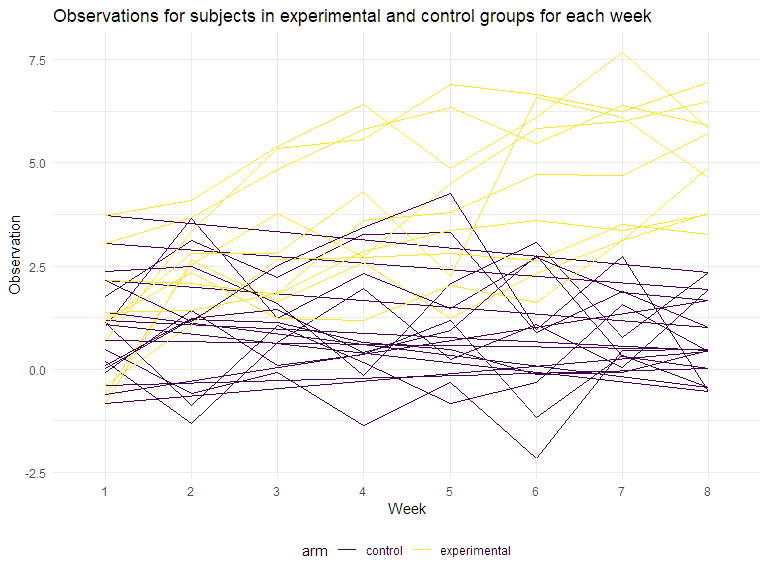
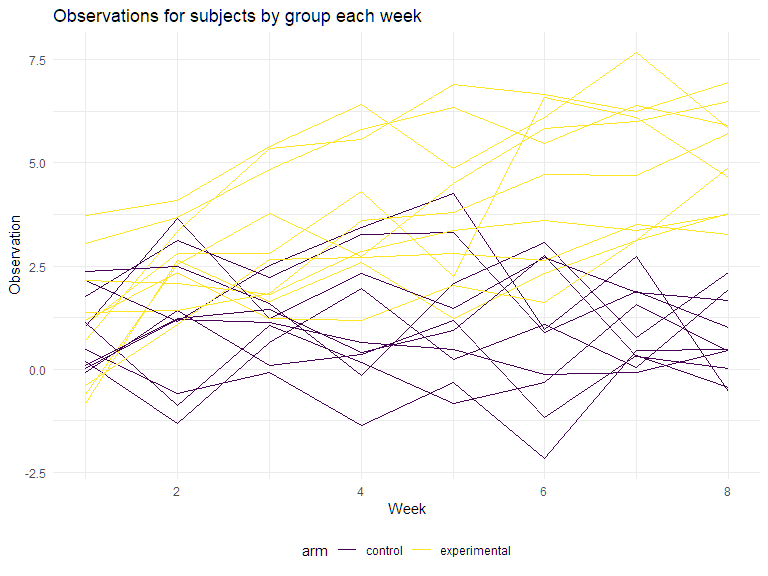
p1: minor change

diff --git a/p8105_hw5_tz2520.md b/p8105_hw5_tz2520.md
@@ -25,36 +25,40 @@ longi_df =
     names_to = "week",
     names_prefix = "week_",
     values_to = "observation"
+  ) %>% 
+  mutate(
+    id = as.character(id),
+    week = as.numeric(week)
   )
 
 longi_df
 ```
 
     ## # A tibble: 160 × 6
-    ##       id arm     path            file       week  observation
-    ##    <dbl> <chr>   <chr>           <chr>      <chr>       <dbl>
-    ##  1     1 control data/con_01.csv con_01.csv 1            0.2 
-    ##  2     1 control data/con_01.csv con_01.csv 2           -1.31
-    ##  3     1 control data/con_01.csv con_01.csv 3            0.66
-    ##  4     1 control data/con_01.csv con_01.csv 4            1.96
-    ##  5     1 control data/con_01.csv con_01.csv 5            0.23
-    ##  6     1 control data/con_01.csv con_01.csv 6            1.09
-    ##  7     1 control data/con_01.csv con_01.csv 7            0.05
-    ##  8     1 control data/con_01.csv con_01.csv 8            1.94
-    ##  9     2 control data/con_02.csv con_02.csv 1            1.13
-    ## 10     2 control data/con_02.csv con_02.csv 2           -0.88
+    ##    id    arm     path            file        week observation
+    ##    <chr> <chr>   <chr>           <chr>      <dbl>       <dbl>
+    ##  1 1     control data/con_01.csv con_01.csv     1        0.2 
+    ##  2 1     control data/con_01.csv con_01.csv     2       -1.31
+    ##  3 1     control data/con_01.csv con_01.csv     3        0.66
+    ##  4 1     control data/con_01.csv con_01.csv     4        1.96
+    ##  5 1     control data/con_01.csv con_01.csv     5        0.23
+    ##  6 1     control data/con_01.csv con_01.csv     6        1.09
+    ##  7 1     control data/con_01.csv con_01.csv     7        0.05
+    ##  8 1     control data/con_01.csv con_01.csv     8        1.94
+    ##  9 2     control data/con_02.csv con_02.csv     1        1.13
+    ## 10 2     control data/con_02.csv con_02.csv     2       -0.88
     ## # … with 150 more rows
 
 ### Make a spaghetti plot
 
 ``` r
 longi_df %>% 
-  ggplot(aes(x = week, y = observation, group = id, color = arm)) +
-  geom_path() +
+  ggplot(aes(x = week, y = observation, type = id, color = arm)) +
+  geom_line() +
   labs(
       x = "Week",
       y = "Observation",
-      title = "Observations for subjects in experimental and control groups for each week"
+      title = "Observations for subjects by group each week"
       )
 ```
 
@@ -97,7 +101,27 @@ homicide_df =
       disposition == "Closed by arrest"      ~ "solved"
     )) %>% 
   relocate(city_state)
+
+homicide_df
 ```
+
+    ## # A tibble: 52,179 × 14
+    ##    city_state  uid   repor…¹ victi…² victi…³ victi…⁴ victi…⁵ victi…⁶ city  state
+    ##    <chr>       <chr>   <dbl> <chr>   <chr>   <chr>   <chr>   <chr>   <chr> <chr>
+    ##  1 Albuquerqu… Alb-…  2.01e7 GARCIA  JUAN    Hispan… 78      Male    Albu… NM   
+    ##  2 Albuquerqu… Alb-…  2.01e7 MONTOYA CAMERON Hispan… 17      Male    Albu… NM   
+    ##  3 Albuquerqu… Alb-…  2.01e7 SATTER… VIVIANA White   15      Female  Albu… NM   
+    ##  4 Albuquerqu… Alb-…  2.01e7 MENDIO… CARLOS  Hispan… 32      Male    Albu… NM   
+    ##  5 Albuquerqu… Alb-…  2.01e7 MULA    VIVIAN  White   72      Female  Albu… NM   
+    ##  6 Albuquerqu… Alb-…  2.01e7 BOOK    GERALD… White   91      Female  Albu… NM   
+    ##  7 Albuquerqu… Alb-…  2.01e7 MALDON… DAVID   Hispan… 52      Male    Albu… NM   
+    ##  8 Albuquerqu… Alb-…  2.01e7 MALDON… CONNIE  Hispan… 52      Female  Albu… NM   
+    ##  9 Albuquerqu… Alb-…  2.01e7 MARTIN… GUSTAVO White   56      Male    Albu… NM   
+    ## 10 Albuquerqu… Alb-…  2.01e7 HERRERA ISRAEL  Hispan… 43      Male    Albu… NM   
+    ## # … with 52,169 more rows, 4 more variables: lat <dbl>, lon <dbl>,
+    ## #   disposition <chr>, resolved <chr>, and abbreviated variable names
+    ## #   ¹reported_date, ²victim_last, ³victim_first, ⁴victim_race, ⁵victim_age,
+    ## #   ⁶victim_sex
 
 ### Summarize total No. of homicides and unsolved homicides within cities
 
